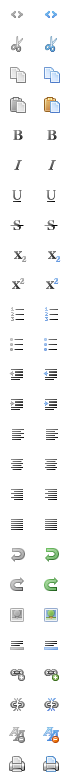
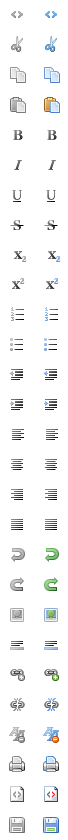
adding done, delete, source to toolbar

Changed region(s): [[0.6176, 0.0, 0.8824, 1.0], [0.1176, 0.0, 0.3824, 1.0]]

diff --git a/attachments/js/main.js b/attachments/js/main.js
@@ -176,11 +176,11 @@ app.changes = function(since, options) {
 
 ///////////////////////////////////////////////////////////////////////////////
 
-function edit(ko_element, event) {
+function edit(object, event) {
   var t = document.elementFromPoint(event.clientX, event.clientY);
-  if (t.nodeName == 'DIV' && !ko_element.editing()) {
+  if (t.nodeName != 'A' && !object.editing()) {
     console.log(t);
-    ko_element.editing(true);
+    object.editing(true);
     return false;
   } else {
     return true;
@@ -199,7 +199,7 @@ ko.bindingHandlers.htmlValue = {
             controlclass:'tecontrol', // (optional) CSS class of the buttons
             rowclass:'teheader', // (optional) CSS class of the button rows
             dividerclass:'tedivider', // (optional) CSS class of the button diviers
-            controls:['bold', 'italic', 'underline', 'strikethrough', '|', 'subscript', 'superscript', '|', 'orderedlist', 'unorderedlist', '|' ,'outdent' ,'indent', '|', 'leftalign', 'centeralign', 'rightalign', 'blockjustify', '|', 'unformat', '|', 'undo', 'redo', 'n', 'font', 'size', 'style', '|', 'image', 'hr', 'link', 'unlink', '|', 'cut', 'copy', 'paste', 'print'], // (required) options you want available, a '|' represents a divider and an 'n' represents a new row
+            controls:['bold', 'italic', 'underline', 'strikethrough', '|', 'subscript', 'superscript', '|', 'orderedlist', 'unorderedlist', '|' ,'outdent' ,'indent', '|', 'leftalign', 'centeralign', 'rightalign', 'blockjustify', '|', 'unformat', '|', 'undo', 'redo', 'n', 'font', 'size', 'style', '|', 'image', 'hr', 'link', 'unlink', '|', 'cut', 'copy', 'paste', 'print', '|', 'done', 'delete'], // (required) options you want available, a '|' represents a divider and an 'n' represents a new row
             footer:true, // (optional) show the footer
             fonts:['Verdana','Arial','Georgia','Trebuchet MS'],  // (optional) array of fonts to display
             xhtml:true, // (optional) generate XHTML vs HTML
@@ -209,7 +209,9 @@ ko.bindingHandlers.htmlValue = {
             bodyid:'editor', // (optional) attach an ID to the editor body
             footerclass:'tefooter', // (optional) CSS class of the footer
             toggle:{text:'source',activetext:'wysiwyg',cssclass:'toggle'}, // (optional) toggle to markup view options
-            resize:{cssclass:'resize'} // (optional) display options for the editor resize
+            resize:{cssclass:'resize'}, // (optional) display options for the editor resize
+            done: function() {element.blur()}
+            
         });
         ko.utils.registerEventHandler(element, "click", function() {
           //element.contentEditable = 'true';
@@ -257,9 +259,9 @@ ko.bindingHandlers.editing = {
             if (event.which == 13) {
                 //element.blur();
             } else if (event.keyCode == 27) {
-                var value = valueAccessor()
+                var value = valueAccessor();
                 value(!value());
-                element.blur();
+                //element.blur();
             }
         });
     },

diff --git a/attachments/tinyeditor/tinyeditor.js b/attachments/tinyeditor/tinyeditor.js
@@ -34,6 +34,8 @@ TINY.editor=function(){
 	c['unlink']=[23,'Remove Hyperlink','a','unlink'];
 	c['unformat']=[24,'Remove Formatting','a','removeformat'];
 	c['print']=[25,'Print','a','print'];
+	c['done']=[26,'Done','d','done'];
+	c['delete']=[27,'Delete','d','delete'];
 	function edit(n,obj){
 		this.n=n; window[n]=this; this.t=obj.el; this.obj=obj; this.xhtml=obj.xhtml;
 		var p=this.t.parentNode/*document.createElement('div')*/, w=document.createElement('div'), h=document.createElement('div'),
@@ -86,7 +88,7 @@ TINY.editor=function(){
 				div.className=obj.controlclass;
 				div.style.backgroundPosition='0px '+pos+'px';
 				div.title=x[1];
-				ex=func=='a'?'.action("'+x[3]+'",0,'+(x[4]||0)+')':'.insert("'+x[4]+'","'+x[5]+'","'+x[3]+'")';
+				ex=func=='a'?'.action("'+x[3]+'",0,'+(x[4]||0)+')':func=='i'?'.insert("'+x[4]+'","'+x[5]+'","'+x[3]+'")':'.direct("'+x[3]+'")';
 				div.onclick=new Function(this.n+(id=='print'?'.print()':ex));
 				div.onmouseover=new Function(this.n+'.hover(this,'+pos+',1)');
 				div.onmouseout=new Function(this.n+'.hover(this,'+pos+',0)');
@@ -221,6 +223,9 @@ TINY.editor=function(){
 	edit.prototype.post=function(){
 		if(this.d){this.toggle(1)}
 	};
+	edit.prototype.direct=function(cmd){
+		if (typeof this.obj[cmd] == 'function') this.obj[cmd]();
+	}
 	return{edit:edit}
 }();
 

diff --git a/attachments/index.html b/attachments/index.html
@@ -84,9 +84,6 @@
 
 <script type="text/html" id="todo-template">
     <div data-bind="css: {completed:completed, editing:editing}">
-        <a click="document.execCommand('bold',null,false);">
-        <b>Bold</b>
-        </a>
         <div id="editor" data-bind="htmlValue: name, editing: editing, click: edit"/>
         <ul class="tokens"></ul>
         <div class="actions">
